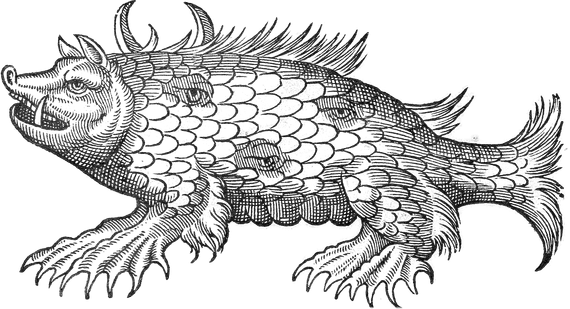
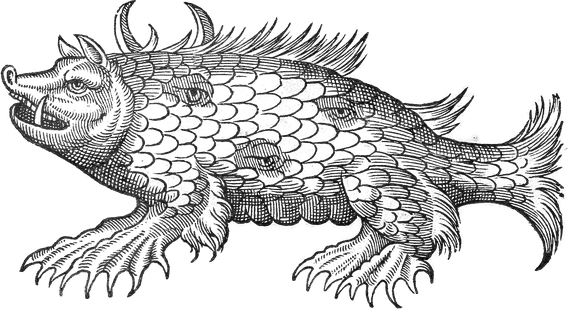
feat(packs): Paré's sea sow and sea elephant stay ink by a visual pass, both crops widened (#111)

diff --git a/docs/pare-3289/README.md b/docs/pare-3289/README.md
@@ -1,0 +1,22 @@
+# Paré's sea sow and sea elephant, `pare-truie` and `pare-elephant`: ink kept (#111)
+
+Two sprites of the `scanned` pack from one scan, `pare-3289` (Ambroise Paré, *Des monstres*, woodcut, Wellcome
+Collection L0033289, CC BY 4.0; 3494 px wide). Crops: sow (880,440)-(3030,1640); elephant (790,2410)-(3020,3560).
+
+![raw crop, the ink sprite, the patch candidate; 3x map size above, map size below, each multiplied onto parchment](steps.png)
+
+`steps.png`: for each sprite, left to right, the raw crop, the ink sprite (the one shipped) and the patch candidate
+(paper measured from the crop, `#b1b1b1` for both, the mean of its pixels above level 110; no outline, the whole crop
+feathered at its edge), each multiplied onto parchment. The top two rows are 3x the width the map draws them (sow
+190 px, elephant 180 px); the bottom two rows are map size. `pare-*.raw.png` and `.key.png` (both 700 px wide) with
+`.cut.png` are the images behind the ink sprites; `.patch.cut.png` is the candidate.
+
+| Sprite | Call | Reason | In the raw, not in the sprite |
+|---|---|---|---|
+| `pare-truie` | keep `ink` | Ink alone on paper; horns, spines, claws, tail tuft all in | page tone; verso ghost behind the neck |
+| `pare-elephant` | keep `ink` | Ink alone on paper; tusk, head tuft, fish tail, toes all in | page tone; verso ghost of a figure and lettering |
+
+The sow's old crop ended 1 px below a claw tip and 12 px from the tail tuft, the elephant's 3 px from the tusk tip and 9 px from the head tuft, so both are
+widened (a crop within 20 px of the figure cuts its edge). Neither plate draws water or ground, so the raw holds none
+for the ink key to lose. The verso show-through (a ghost figure above the elephant, lettering along its foot) is not the plate.
+Undo for each: `key: 'patch'` on the sprite (with `paper: '#b1b1b1'`, as in the candidates, and no `silhouette`) in `scripts/build-packs.mjs`.
